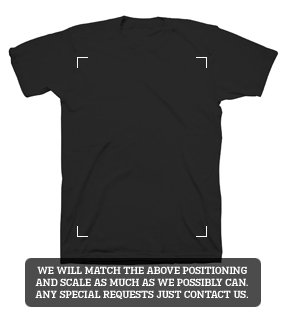
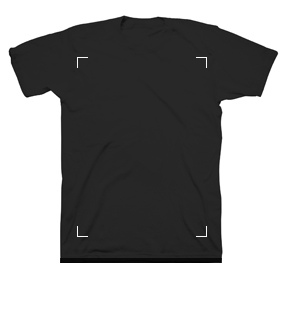
i tweak therefore i am

Changed region(s): [[0.0839, 0.7812, 0.9231, 0.9688]]

diff --git a/less/main.less b/less/main.less
@@ -10,23 +10,35 @@
 
 body {
 /*  position: relative;*/
-  background: #888;
+  background: #252525;
+  width: 640px;
+  overflow: hidden;
+  height: 800px;
 }
 
 
 canvas {
-  position: absolute;
-  top: 0;
+  position: fixed;
+  left: 16px;
+  top: 16px;
   background: #252525;
+  outline: 1px solid #333;
   z-index: 5;
 }
 
 div#bar {
   position: fixed;
-  top: 660px;
+  top: 780px;
   z-index: 99;
   left: 0;
   right: 0;
+}
+
+button {
+  .rounded(4px);
+  padding: 36px 0;
+  width: 108px;
+  .grad_linear(#fff,#aaa);
 }
 
 button.zoom {
@@ -36,7 +48,7 @@ button.zoom {
   z-index: 100;
   font-size: 200%;
   &#out {
-    left: 3em;
+    left: 128px;
   }
 }
 
@@ -51,22 +63,23 @@ button.tweak {
 div#main {
   height: 960px;
   width: 640px;
+  overflow: hidden;
 }
 
 
 #t {
-  left: -38px;
-  top: -26px;
-  position: absolute;
-  width: 720px;
+  left: -48px;
+  top: -32px;
+  position: fixed;
+  width: 740px;
   display: none;
 }
 
 body.tshirt_view {
   canvas {
-    width: 320px;
-    left: 160px;
-    top: 120px;
+    width: 330px;
+    left: 155px;
+    top: 118px;
   }
   #t {
     display: block;
@@ -144,6 +157,7 @@ body.tweak .dg {
   /** Controller placement */
   .c input[type=text] { 
     font-size: 200%;
+    background: none;
   }
 
   /** Shorter number boxes when slider is present. */

diff --git a/tshirt.html b/tshirt.html
@@ -166,7 +166,9 @@
       
       _.delay(function() {
         $('div.dg.main.a').css({ width: "100%" });
-        // less.watchMode = true;
+        less.watchMode = true;
+        window.scrollTo(0, 1);
+        
       }, 100);
     })
   </script>
@@ -174,7 +176,7 @@
 
 <body class="tweak">
   <div id="main">
-    <canvas id="canvas" keepalive="true" width='640' height='910'></canvas>
+    <canvas id="canvas" keepalive="true" width='610' height='860'></canvas>
     <img src="images/t-black.jpg" id="t">
   </div>
   
